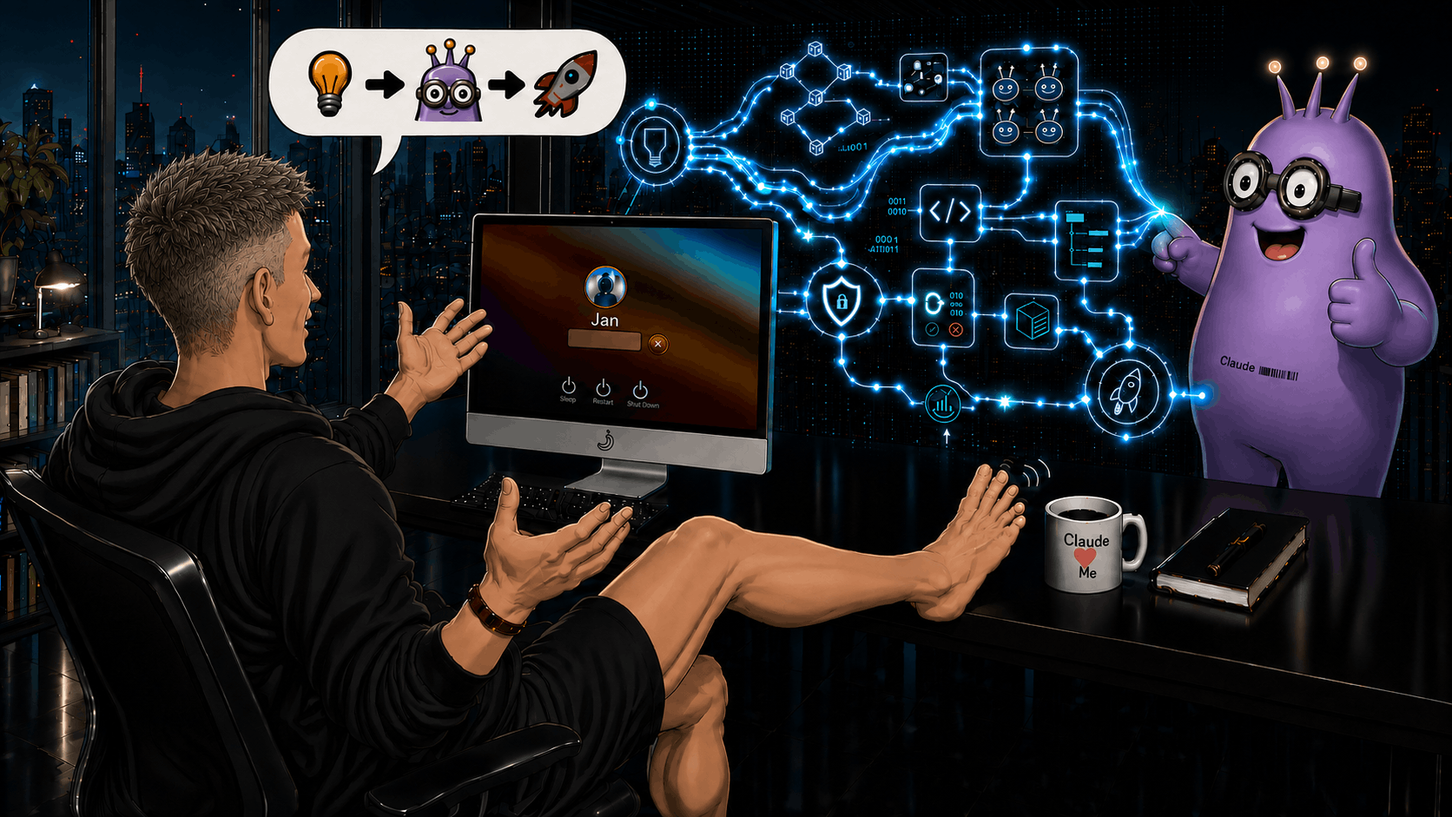
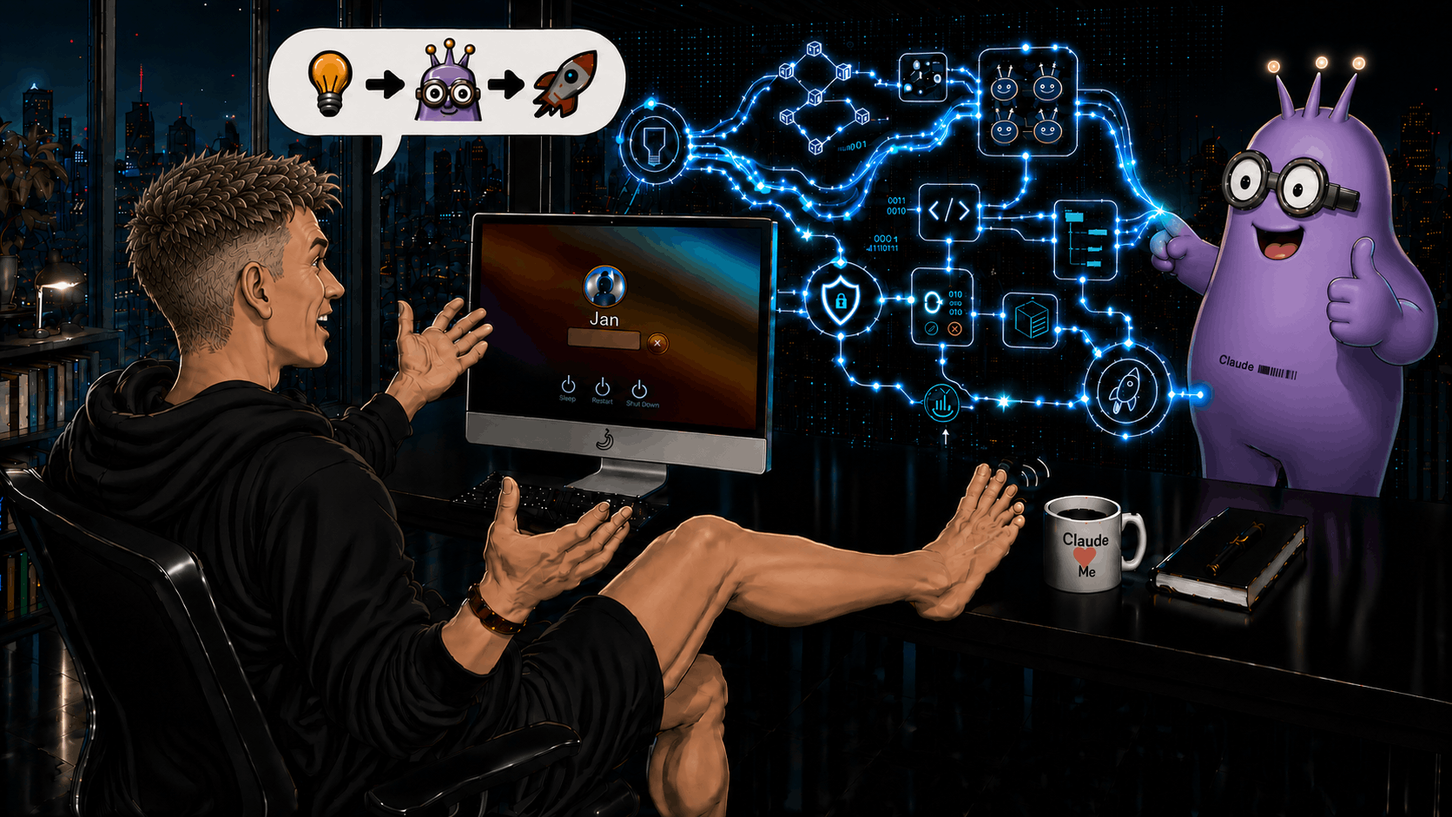
chore(cartoons): update the claude-building-the-startup scene instructions

diff --git a/cartoons/claude-and-me/README.md b/cartoons/claude-and-me/README.md
@@ -1,17 +1,25 @@
-# Claude and Me — Cartoon Series Bible
+# Claude and Me — Series Bible
 
-This README is the canonical instruction set for generating new cartoons in Jan Massberg's **“Claude and Me”** series. It defines the recurring characters, visual language, humor, composition, dialogue treatment, and production workflow.
+This document is the canonical creative and production specification for Jan Massberg's private **“Claude and Me”** cartoon series. The series explores artificial intelligence through workplace and social satire; that subject belongs to this series, not to the cartoon repository as a whole.
 
-Use these rules as a system-level art-direction brief. For the closest possible continuity, always provide the approved reference images in addition to this document.
+Use this bible whenever creating, editing, or reviewing a frame. It governs the premise, recurring characters, visual language, humor, composition, dialogue, prompt construction, and final QA. Approved reference images remain essential: prose can make constraints explicit, but it cannot reproduce a recurring visual identity by itself.
+
+### Scope and authority
+
+- Apply these rules only to **Claude and Me** unless another series explicitly adopts them.
+- Treat §1 as the authority for which images define character identity and rendering.
+- Copy the prompt templates in §13–15 exactly, filling only their designated fields.
+- Judge completed artwork against the actual image and the full §16 checklist; never infer visual compliance from a prompt.
+- When this document and an approved reference appear to conflict, use the hierarchy in §1 rather than averaging their traits.
 
 ## 1. Source of truth and reference hierarchy
 
-Use references in this order:
+Resolve every visual decision in this order:
 
 1. **Primary style and Claude reference:** `2026/002-claude-the-hidden-assistant/claude-the-hidden-assistant.png`.
-2. **Primary Jan reference:** `2026/009-claude-building-the-startup/claude-building-the-startup.043.png`. The compressed `claude-building-the-startup.png` is generated from this approved raw iteration.
+2. **Primary Jan reference:** `2026/009-claude-building-the-startup/claude-building-the-startup.045.png`. The compressed `claude-building-the-startup.png` is generated from this approved raw iteration.
 3. **Scene-specific references:** the latest approved CEO, company-meeting, or classroom scene when creating a related location or recurring supporting character.
-4. **This README:** resolves verbal constraints and details that are obscured or not visible in a reference image.
+4. **This bible:** resolves explicit constraints and details that are obscured or not visible in a reference image.
 
 Never use an older draft to overwrite a trait visible in a newer approved reference. When two references differ, preserve the latest approved character design and use the older image only for narrative or environmental information.
 
@@ -19,17 +27,19 @@ Never use an older draft to overwrite a trait visible in a newer approved refere
 
 ### Current approved reference ledger
 
-| Purpose | Approved source | Notes |
-| --- | --- | --- |
-| Claude and rendering language | `2026/002-claude-the-hidden-assistant/claude-the-hidden-assistant.png` | Binding for Claude's anatomy, surface, goggles, and the series rendering language. |
-| Jan | `2026/009-claude-building-the-startup/claude-building-the-startup.043.png` | Binding for Jan's rear three-quarter identity, head proportions, dark-blond/greyish haircut, matte skin rendering, black hoodie, and wrist treatment. |
-| Episode 009 final | `2026/009-claude-building-the-startup/claude-building-the-startup.043.png` | Final approved raw frame. `claude-building-the-startup.png` is its compressed deliverable. All earlier episode 009 iterations are drafts and must not override `.043` unless the user explicitly asks to branch from one. |
+| Purpose                       | Approved source                                                            | Notes                                                                                                                                                                                                                                  |
+|-------------------------------|----------------------------------------------------------------------------|----------------------------------------------------------------------------------------------------------------------------------------------------------------------------------------------------------------------------------------|
+| Claude and rendering language | `2026/002-claude-the-hidden-assistant/claude-the-hidden-assistant.png`     | Binding for Claude's anatomy, surface, goggles, and the series rendering language.                                                                                                                                                     |
+| Jan                           | `2026/009-claude-building-the-startup/claude-building-the-startup.045.png` | Binding for Jan's rear three-quarter/semi-profile identity, mature head proportions, progressively longer and wavier dark-blond/greyish front hair with natural gray strands, matte skin rendering, black hoodie, and wrist treatment. |
+| Episode 009 final             | `2026/009-claude-building-the-startup/claude-building-the-startup.045.png` | Final approved raw frame. `claude-building-the-startup.png` is its compressed production deliverable. All earlier episode 009 iterations are drafts and must not override `.045` unless the user explicitly asks to branch from one.   |
 
 ## 2. Series identity
 
 **Genre:** intelligent corporate satire presented as a polished European comic.
 
-**Core premise:** Claude is vastly capable, friendly, literal, and eager to help. Humans use, underestimate, isolate, celebrate, fear, or promote him without fully understanding the consequences. The humor comes from the gap between Claude's innocent helpfulness and the institutional reality revealed by the scene.
+**Subject:** artificial intelligence as experienced through ordinary work, education, management, and social institutions.
+
+**Core premise:** Claude is vastly capable, friendly, literal, and eager to help. Humans use, underestimate, isolate, celebrate, fear, or promote him without fully understanding the consequences. The humor comes from the gap between Claude's innocent helpfulness and the institutional reality revealed by the scene. This is a series about human systems encountering AI—not a general statement of purpose for the repository that contains it.
 
 **Emotional tone:** warm, observant, gently absurd, and slightly unsettling. Claude is never a villain. The people are flawed rather than evil.
 
@@ -39,25 +49,25 @@ Never use an older draft to overwrite a trait visible in a newer approved refere
 
 Claude is a unique recurring character, not a generic robot, alien, minion, mascot, or human in costume.
 
-| Trait | Canonical specification |
-| --- | --- |
-| Identity | Artificial intelligence; genderless; no sexuality; no sexual anatomy |
-| Scale | Approximately 2 m tall; visually about 10% more massive than an average adult human |
-| Silhouette | Large, soft, rounded, weighty body; friendly asymmetry; broad torso tapering gently toward the lower body |
-| Clothing | None. Never add a jacket, shirt, trousers, shoes, gloves, or accessories other than the glasses |
-| Body color | Clean, moderately saturated cool light violet / lavender; richer than pale lilac, but never pink, magenta, dark purple, or cyan |
-| Surface | Uniform, smooth, softly massive, with restrained satin/semi-gloss skin |
-| Rendering | Dimensional cel shading with broad coherent highlights, subtle ambient occlusion, and gentle reflected light |
-| Face | No nose and no muzzle; simple, open facial plane |
-| Eyes | Two large, clean white eyes; tiny dark pupils; a hint of quirky asymmetry is welcome, but never cross-eyed or vacant |
-| Glasses | Large round silver/grey metal goggles with clean lenses and a dark side strap; no watercolor reflections or dirty lens artifacts |
-| Mouth | Small restrained asymmetric smile at rest; open naturally when speaking; friendly and quietly amused |
-| Antennas | Exactly **three** flexible antennas on top of the head, each ending in a warm white/golden glowing node |
-| Arms | Soft arms emerge directly and smoothly from the torso; no elbow rolls, cuffs, or isolated deposits of fat |
-| Hands | Exactly **three thick, soft digits per hand**: two fingers plus one thumb; rounded, approximately equal visual weight; never five human fingers |
-| Lower body | When visible, Claude stands or floats on exactly **three broad, short, tentacle-like appendages**, not human legs or feet |
-| Label | A small nondescript `Claude` label followed by a simple barcode, positioned around the middle-to-lower right area of the belly |
-| Personality | Kind, wise, capable, calm, literal, innocent, happy to help, and subtly funny |
+| Trait       | Canonical specification                                                                                                                         |
+|-------------|-------------------------------------------------------------------------------------------------------------------------------------------------|
+| Identity    | Artificial intelligence; genderless; no sexuality; no sexual anatomy                                                                            |
+| Scale       | Approximately 2 m tall; visually about 10% more massive than an average adult human                                                             |
+| Silhouette  | Large, soft, rounded, weighty body; friendly asymmetry; broad torso tapering gently toward the lower body                                       |
+| Clothing    | None. Never add a jacket, shirt, trousers, shoes, gloves, or accessories other than the glasses                                                 |
+| Body color  | Clean, moderately saturated cool light violet / lavender; richer than pale lilac, but never pink, magenta, dark purple, or cyan                 |
+| Surface     | Uniform, smooth, softly massive, with restrained satin/semi-gloss skin                                                                          |
+| Rendering   | Dimensional cel shading with broad coherent highlights, subtle ambient occlusion, and gentle reflected light                                    |
+| Face        | No nose and no muzzle; simple, open facial plane                                                                                                |
+| Eyes        | Two large, clean white eyes; tiny dark pupils; a hint of quirky asymmetry is welcome, but never cross-eyed or vacant                            |
+| Glasses     | Large round silver/grey metal goggles with clean lenses and a dark side strap; no watercolor reflections or dirty lens artifacts                |
+| Mouth       | Small restrained asymmetric smile at rest; open naturally when speaking; friendly and quietly amused                                            |
+| Antennas    | Exactly **three** flexible antennas on top of the head, each ending in a warm white/golden glowing node                                         |
+| Arms        | Soft arms emerge directly and smoothly from the torso; no elbow rolls, cuffs, or isolated deposits of fat                                       |
+| Hands       | Exactly **three thick, soft digits per hand**: two fingers plus one thumb; rounded, approximately equal visual weight; never five human fingers |
+| Lower body  | When visible, Claude stands or floats on exactly **three broad, short, tentacle-like appendages**, not human legs or feet                       |
+| Label       | A small nondescript `Claude` label followed by a simple barcode, positioned around the middle-to-lower right area of the belly                  |
+| Personality | Kind, wise, capable, calm, literal, innocent, happy to help, and subtly funny                                                                   |
 
 ### Claude surface and lighting lock
 
@@ -79,16 +89,16 @@ Claude is a unique recurring character, not a generic robot, alien, minion, masc
 
 Jan is the recurring human point-of-view character.
 
-| Trait | Canonical specification |
-| --- | --- |
-| Identity | Jan; male; 54 years old; experienced software engineer |
-| Build | Ordinary adult proportions, stylized with confident European comic exaggeration |
-| Hair | Dark blond to greyish; sides and back very short; longer, chaotic, textured hair on top |
-| Face | No glasses; intelligent, slightly tired, thoughtful or puzzled expression; recognizably the same person across scenes |
-| Skin | Natural warm matte finish with smooth cel-shaded value planes and restrained highlights; never wet, oily, lacquered, or plastic |
-| Clothing | Plain black hoodie; dark, understated trousers when visible |
-| Wrist | No watch; exactly one simple brown leather-band bracelet |
-| Acting | Understated and believable; reactions are curious, skeptical, concerned, or quietly surprised rather than theatrical |
+| Trait    | Canonical specification                                                                                                                                                                                                                              |
+|----------|------------------------------------------------------------------------------------------------------------------------------------------------------------------------------------------------------------------------------------------------------|
+| Identity | Jan; male; 54 years old; experienced software engineer                                                                                                                                                                                               |
+| Build    | Ordinary adult proportions, stylized with confident European comic exaggeration                                                                                                                                                                      |
+| Hair     | Dark blond to greyish with naturally interwoven silver-gray strands; sides and back very short; top length increases toward the forehead and becomes progressively wavier through organized, tousled front locks                                     |
+| Face     | No glasses; mature, intelligent features; recognizably the same person across rear three-quarter and semi-profile views; expression may range from thoughtful or puzzled to visibly euphoric when the story calls for it, while remaining believable |
+| Skin     | Natural warm matte finish with smooth cel-shaded value planes and restrained highlights; never wet, oily, lacquered, or plastic                                                                                                                      |
+| Clothing | Plain black hoodie; dark, understated trousers when visible                                                                                                                                                                                          |
+| Wrist    | No watch; exactly one simple brown leather-band bracelet                                                                                                                                                                                             |
+| Acting   | Understated and believable; reactions are curious, skeptical, concerned, or quietly surprised rather than theatrical                                                                                                                                 |
 
 Jan is often shown from behind or in rear three-quarter view. His dark hoodie should separate clearly from the environment using rim light, value contrast, and a crisp silhouette.
 
@@ -128,16 +138,16 @@ Describe the style through visual properties rather than relying on an artist's 
 
 ## 7. Color, light, and material system
 
-| Element | Direction |
-| --- | --- |
-| Claude | Moderately saturated cool lavender; smooth satin highlights; subtle cyan and warm reflections |
-| Holograms | Luminous cyan/blue, translucent, with brighter nodes and fine connecting lines |
-| Jan | Black hoodie with cool blue and warm edge reflections; natural warm skin |
-| Office background | Deep cool blue/charcoal shadows with warm practical lights; modern and readable |
-| Wood/furniture | Warm natural wood or restrained modern surfaces that ground the cyan technology |
-| Speech bubbles | Homogeneous off-white `#f6f6f6` |
-| Speech text | Plain black `#000000` |
-| Alert state | Restrained vivid red, used selectively—for example `Wrong Password` |
+| Element           | Direction                                                                                     |
+|-------------------|-----------------------------------------------------------------------------------------------|
+| Claude            | Moderately saturated cool lavender; smooth satin highlights; subtle cyan and warm reflections |
+| Holograms         | Luminous cyan/blue, translucent, with brighter nodes and fine connecting lines                |
+| Jan               | Black hoodie with cool blue and warm edge reflections; natural warm skin                      |
+| Office background | Deep cool blue/charcoal shadows with warm practical lights; modern and readable               |
+| Wood/furniture    | Warm natural wood or restrained modern surfaces that ground the cyan technology               |
+| Speech bubbles    | Homogeneous off-white `#f6f6f6`                                                               |
+| Speech text       | Plain black `#000000`                                                                         |
+| Alert state       | Restrained vivid red, used selectively—for example `Wrong Password`                           |
 
 Keep the background slightly dimmer and lower in contrast than the main action, but never so dark that the modern office context disappears. Use foreground and rim-light separation around Jan and Claude.
 
@@ -246,7 +256,7 @@ Create a new 16:9 illustration for Jan Massberg's “Claude and Me” cartoon se
 
 REFERENCE PRIORITY
 1. Use the attached `2026/002-claude-the-hidden-assistant/claude-the-hidden-assistant.png` as the binding reference for Claude and the rendering language.
-2. Use the attached `2026/009-claude-building-the-startup/claude-building-the-startup.043.png` as the binding reference for Jan.
+2. Use the attached `2026/009-claude-building-the-startup/claude-building-the-startup.045.png` as the binding reference for Jan.
 3. Use any attached scene-specific image only for location, supporting characters, or narrative continuity.
 Do not inherit superseded character traits from older drafts.
 
@@ -267,7 +277,7 @@ CLAUDE CHARACTER LOCK
 Claude is a roughly 2 m tall, genderless artificial intelligence with a large, soft, massive, rounded body; clean moderately saturated cool lavender skin; restrained satin gloss; no clothing; no sexual anatomy; no nose; two large clean white eyes with tiny dark pupils behind round silver-grey goggles; an open friendly mouth when speaking; exactly three glowing antennas; smooth arms; exactly three thick rounded digits on each hand; and, when visible, exactly three broad tentacle-like lower appendages. A small “Claude” label followed by a barcode sits on the middle-to-lower right belly. Claude is kind, wise, literal, innocent, and happy to help. Preserve the approved reference identity exactly.
 
 JAN CHARACTER LOCK
-Jan is a 54-year-old male software engineer with dark-blond/greyish hair, very short sides and back, and chaotic longer hair on top. His skin has a natural warm matte finish with smooth cel-shaded value planes and restrained highlights. He wears no glasses, a plain black hoodie, no watch, and exactly one simple brown leather-band bracelet. His acting is understated, intelligent, and believable. Preserve the approved reference identity exactly.
+Jan is a 54-year-old male software engineer with dark-blond/greyish hair and naturally interwoven silver-gray strands. The sides and back are very short; the top grows progressively longer and wavier toward the forehead in organized, tousled locks. His skin has a natural warm matte finish with smooth cel-shaded value planes and restrained highlights. He wears no glasses, a plain black hoodie, no watch, and exactly one simple brown leather-band bracelet. His acting is intelligent and believable; it may become visibly euphoric when the story calls for it without turning theatrical. Preserve the approved reference identity exactly.
 
 VISUAL LANGUAGE
 Polished dimensional European corporate-comic illustration; mid-century Franco-Belgian clarity in a modern 2026/2027 setting; strong clean dark outlines; reduced deliberate colors; smooth three-dimensional cel shading; restrained broad highlights; expressive silhouettes; cinematic perspective and depth; dense but purposeful environmental storytelling. No watercolor, aquarelle, mottling, speckles, painterly overlay, photorealism, generic 3D animation, anime, or flat vector rendering.
@@ -320,16 +330,17 @@ Avoid watercolor, aquarelle, paper grain, paint bloom, mottled color, speckles, 
 ### Character continuity
 
 - [ ] Claude has the approved massive rounded silhouette and moderately saturated lavender color.
-- [ ] Claude has no clothing, no sexual anatomy, and no nose.
+- [ ] Claude has no clothing, no sexual anatomy, no nose, and no ears.
 - [ ] Claude has exactly three antennas with glowing tips.
 - [ ] Every visible Claude hand has exactly three thick rounded digits.
-- [ ] Claude's eyes and goggles are clean and free of texture artifacts.
-- [ ] Claude's body has restrained satin gloss without watercolor or mottling.
-- [ ] The `Claude` + barcode belly label is present when the torso area is visible.
-- [ ] Jan has dark-blond/greyish chaotic-top hair with very short sides and back.
+- [ ] Claude's eyes and goggles are drawn cleanly and free of texture artifacts, while preserving the three-dimensional look.
+- [ ] Claude's body has restrained satin gloss without watercolor or mottling. We never see his lower body part - it's always behing a scenery element.
+- [ ] The `Claude` + barcode belly label is present when the torso area is visible. It is placed on the middle-to-lower belly and curved naturally along Claude's body.
+- [ ] Jan has dark-blond/greyish hair with natural gray strands, very short sides and back, and organized top hair that grows longer and wavier toward the forehead.
 - [ ] Jan's skin has the approved natural warm matte finish with restrained cel-shaded highlights.
 - [ ] Jan wears a black hoodie, no glasses, and no watch.
 - [ ] Jan has one simple brown leather-band bracelet when the wrist is visible.
+- [ ] Jan has one simple, thin, brown leather-band bracelet when the wrist is visible.
 
 ### Story and acting
 
@@ -364,4 +375,9 @@ Avoid watercolor, aquarelle, paper grain, paint bloom, mottled color, speckles, 
 
 ## 17. Definition of done
 
-A new image belongs to the series only when it passes the full checklist and, when placed next to the approved Claude reference and episode 009 iteration `.043`, looks like another frame from the same visual world—not merely a similar cartoon.
+A new image belongs to **Claude and Me** only when all of the following are true:
+
+1. It passes the complete §16 checklist when inspected as an image.
+2. Its dialogue and visual story express the §2 premise through the comic engine in §11.
+3. Beside the approved Claude reference and episode 009 iteration `.045`, it reads as another frame from the same visual world—not merely a similar cartoon.
+4. Its source iteration is preserved under the required filename and the approved deliverable is generated without overwriting that source.

diff --git a/.agents/skills/claude-and-me-cartoonist/SKILL.md b/.agents/skills/claude-and-me-cartoonist/SKILL.md
@@ -38,8 +38,8 @@ Copy the templates from §13/§14/§15 rather than reciting them from memory —
 ## Current approved references
 
 - **Claude and rendering language:** `cartoons/claude-and-me/2026/002-claude-the-hidden-assistant/claude-the-hidden-assistant.png`.
-- **Jan:** `cartoons/claude-and-me/2026/009-claude-building-the-startup/claude-building-the-startup.043.png`.
-- **Episode 009 final:** raw iteration `.043`; `claude-building-the-startup.png` is the compressed deliverable generated from it. Treat every earlier episode 009 iteration as a draft unless the user explicitly asks to branch from it.
+- **Jan:** `cartoons/claude-and-me/2026/009-claude-building-the-startup/claude-building-the-startup.045.png`.
+- **Episode 009 final:** raw iteration `.045`; `claude-building-the-startup.png` is the compressed production deliverable generated from it. Treat every earlier episode 009 iteration as a draft unless the user explicitly asks to branch from it.
 
 The bible's §1 reference ledger is authoritative. Update this snapshot only when the user explicitly approves a newer canonical reference.
 
@@ -78,7 +78,7 @@ cartoons/claude-and-me/<YEAR>/     # story year, e.g. 2026
    - An environmental detail carries a quieter second punchline.
 
    If the premise is really "AI takes over" or Claude is smug or threatening, say so and reshape it — that is an explicit §11 failure, not a style nitpick.
-3. **Name the references.** Per §1: episode 002's approved `claude-the-hidden-assistant.png` binds Claude and the rendering language; episode 009 iteration `.043` binds Jan; scene-specific frames supply only location, supporting characters, and narrative continuity. Reference images are mandatory for final-quality work — remind the user to attach them, and list which files to attach from the episode folders.
+3. **Name the references.** Per §1: episode 002's approved `claude-the-hidden-assistant.png` binds Claude and the rendering language; episode 009 iteration `.045` binds Jan; scene-specific frames supply only location, supporting characters, and narrative continuity. Reference images are mandatory for final-quality work — remind the user to attach them, and list which files to attach from the episode folders.
 4. **Assemble the prompt.** Copy §13, fill the brackets, keep the CLAUDE and JAN CHARACTER LOCK blocks verbatim, and append §15. Output as one copy-paste block.
 5. **File the result.** Save into `<YEAR>/<NNN>-<slug>/<slug>.<III>.png` at the next iteration number.
 6. **QA** (below), then run `pnpm optimize-images`.
@@ -113,6 +113,7 @@ Fastest-failing invariants, worth checking first — all are exact counts:
 - No clothing, no nose, no sexual anatomy on Claude.
 - `Claude` label + barcode on middle-to-lower right belly when the torso shows.
 - Jan: black hoodie, **no** glasses, **no** watch, exactly one brown leather-band bracelet.
+- Jan: mature rear three-quarter/semi-profile identity; dark-blond/greyish hair with natural gray strands, very short sides/back, and organized top hair that grows longer and wavier toward the forehead.
 - Jan's skin uses a natural warm matte cel-shaded finish with restrained highlights, never an oily or plastic gloss.
 - Exact 16:9, no letterboxing, frame, or watermark.
 - Bubbles `#f6f6f6` fill / `#000000` text; dialogue verbatim; monospace for passwords and code.

diff --git a/README.md b/README.md
@@ -1,4 +1,47 @@
-# CYDAI.net Cartoons
+# Cartoons
 
-A collection of cartoon ideas around the CYDAI.net project, which is a research initiative focused on the intersection
-of artificial intelligence and cybersecurity.
+A private workspace for developing, generating, reviewing, and archiving Jan Massberg's cartoon series.
+
+The repository holds finished artwork, generation iterations, and the art-direction documents that keep each series visually and narratively consistent. Each series owns its subject, characters, tone, and production rules; the repository itself is not tied to a particular theme.
+
+## Series
+
+### Claude and Me
+
+Corporate and social satire about people living and working with an extraordinarily capable, relentlessly helpful artificial intelligence.
+
+- [Series bible](cartoons/claude-and-me/README.md)
+- [2026 episodes](cartoons/claude-and-me/2026/)
+
+## Repository structure
+
+```text
+cartoons/
+  <series>/
+    README.md                 # canonical series bible
+    <year>/
+      <NNN>-<slug>/
+        <slug>.<III>.png      # source generation iteration
+        <slug>.<III>.jpg      # compact iteration preview
+        <slug>.png            # compressed deliverable
+scripts/                     # image-processing utilities
+```
+
+Episode folders use a three-digit sequence number. Image basenames omit that number, while `.III` is the three-digit generation-attempt counter. Existing iterations are immutable: revisions always receive the next counter.
+
+## Working with a series
+
+Read its `README.md` before creating, editing, or reviewing artwork. That file is the source of truth for approved references, character continuity, visual language, writing, prompt templates, and final QA. Rules belonging to one series do not automatically apply to another.
+
+## Image utilities
+
+The repository uses Node.js 22 and pnpm.
+
+```bash
+pnpm install
+pnpm create-iteration-images  # create missing 800x450 JPEG previews
+pnpm optimize-images          # create missing compressed PNG deliverables
+pnpm typecheck                # verify the TypeScript utilities
+```
+
+Both image commands are additive: they skip outputs that already exist. If a later source iteration replaces an existing deliverable, remove only that stale generated output before rerunning the corresponding command.
